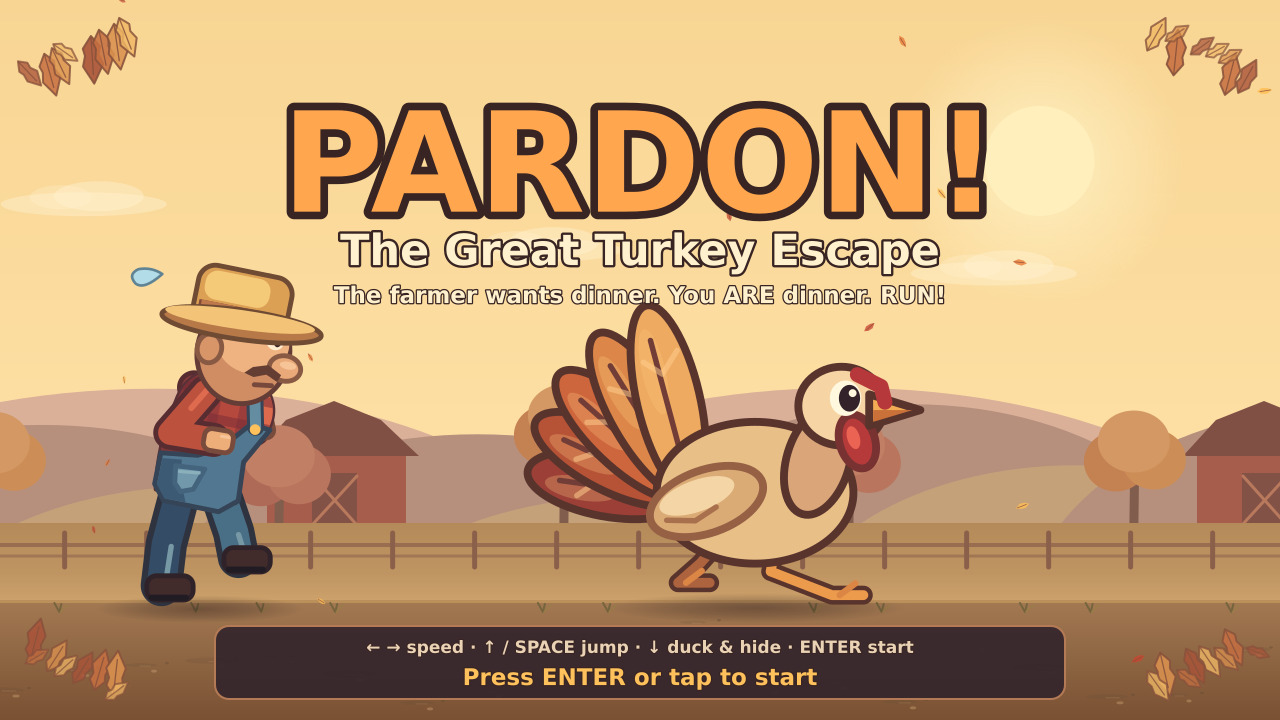
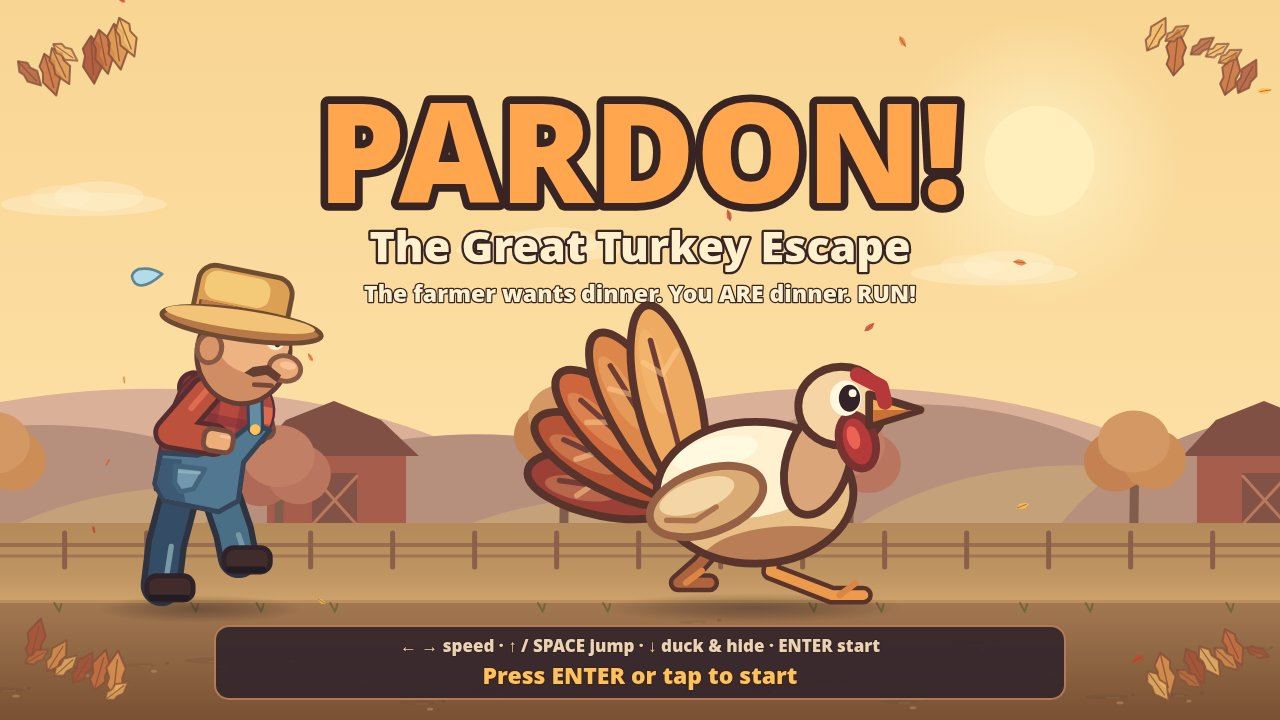
v3.1: oven collision reverted to 128 per Kaggle re-measurement (eased values overshoot to 63-84% clear); cover restaged with visible gap between farmer's hand and oven; barn shot is now the hide moment (HIDDEN, searching farmer); stronger drop shadows; larger caught-screen score line; screenshots re

diff --git a/game/src/render.js b/game/src/render.js
@@ -88,9 +88,9 @@ export class Renderer {
     return gradient;
   }
 
-  text(value, x, y, size, fill = CREAM, align = 'center', outline = INK) {
+  text(value, x, y, size, fill = CREAM, align = 'center', outline = INK, weight = 900) {
     const c = this.ctx;
-    c.font = `900 ${size}px system-ui, sans-serif`;
+    c.font = `${weight} ${size}px system-ui, sans-serif`;
     c.textAlign = align;
     c.textBaseline = 'middle';
     c.lineJoin = 'round';
@@ -110,14 +110,14 @@ export class Renderer {
     }
   }
 
-  shadow(x, y, w, h = 6) {
+  shadow(x, y, w, h = 6, strong = false) {
     const c = this.ctx;
     c.save();
     c.translate(x, y);
     c.scale(w, h);
     const shade = c.createRadialGradient(0, 0, 0, 0, 0, 1);
-    shade.addColorStop(0, '#24171861');
-    shade.addColorStop(0.5, '#24171839');
+    shade.addColorStop(0, strong ? '#24171886' : '#24171861');
+    shade.addColorStop(0.5, strong ? '#24171850' : '#24171839');
     shade.addColorStop(1, '#24171800');
     this.oval(0, 0, 1, 1, shade);
     c.restore();
@@ -355,12 +355,14 @@ export class Renderer {
     const dashing = this.trackRunner(state);
     const impact = this.beginImpact();
     this.background(state.currentStage.id, state.cameraX);
+    const cover = state.frozen ? state.shotCover : undefined;
     for (const item of itemsInRange(state.world, state.cameraX - 25, state.cameraX + this.w + 25)) {
-      if (!item.collected) this.drawItem(item, item.x - state.cameraX);
+      if (item !== cover && !item.collected) this.drawItem(item, item.x - state.cameraX);
     }
     this.drawEffects(state.cameraX);
     if (dashing) this.speedLines(state.turkey, state.cameraX);
     this.drawTurkey(state.turkey, state.turkey.x - state.cameraX, state.farmer.state === 'lunge');
+    if (cover) this.drawItem(cover, cover.x - state.cameraX);
     this.drawFarmer(state.farmer, state.farmer.x - state.cameraX);
     if (!state.frozen || state.currentStage.id === 'farm') this.leaves(state.cameraX);
     this.endImpact(impact);
@@ -499,7 +501,7 @@ export class Renderer {
     const { w, h, kind } = item;
     const g = this.ground;
     const y = g - h;
-    if (kind !== 'corn') this.shadow(x + w / 2, g + 3, w * 0.57);
+    if (kind !== 'corn') this.shadow(x + w / 2, g + 3, w * 0.57, 6, true);
     switch (kind) {
       case 'fence':
         this.round(x, y + 22, w, 11, 3, '#4d2c24');
@@ -628,7 +630,7 @@ export class Renderer {
 
   drawTurkey(turkey, x, alarmed) {
     const lift = turkey.y ?? 0;
-    this.shadow(x, this.ground + 4, Math.max(9, 33 - lift * 0.11) * CHARACTER_SCALE, 8);
+    this.shadow(x, this.ground + 4, Math.max(9, 33 - lift * 0.11) * CHARACTER_SCALE, 8, true);
     this.turkeyPose(x, this.ground - lift, { ...turkey, airborne: lift > 0, alarmed }, CHARACTER_SCALE);
   }
 
@@ -738,7 +740,7 @@ export class Renderer {
   }
 
   drawFarmer(farmer, x) {
-    this.shadow(x, this.ground + 3, 39 * CHARACTER_SCALE, 8);
+    this.shadow(x, this.ground + 3, 39 * CHARACTER_SCALE, 8, true);
     this.farmerPose(x, this.ground, farmer, CHARACTER_SCALE);
     if (farmer.state === 'search') this.text('?', x, this.ground - 145 * CHARACTER_SCALE, 37, GOLD);
   }
@@ -994,9 +996,10 @@ export class Renderer {
       'Press ENTER or tap to start', true);
   }
 
-  bottomPrompt(details, prompt, blink = false) {
+  bottomPrompt(details, prompt, blink = false, emphasizeDetails = false) {
     this.round(215, 626, 850, 73, 14, '#35262ceF', '#b47a55');
-    this.text(details, 640, 647, 17, '#ead2b5');
+    if (emphasizeDetails) this.text(details, 640, 647, 22, CREAM, 'center', INK, 1000);
+    else this.text(details, 640, 647, 17, '#ead2b5');
     if (!blink || this.time % 1.3 < 1.03) this.text(prompt, 640, 677, 23, GOLD);
   }
 
@@ -1008,7 +1011,7 @@ export class Renderer {
     this.rect(0, 0, this.w, this.h, '#291b2b89');
     this.text('CAUGHT!', 640, 122, 112, '#ff8062');
     this.text('The dinner is back on...', 640, 194, 31);
-    this.shadow(608, this.ground + 8, 156, 17);
+    this.shadow(608, this.ground + 8, 156, 17, true);
     this.farmerPose(530, this.ground, { facing: 1 }, 2.28 * CHARACTER_SCALE, true);
     this.turkeyPose(686, this.ground - 328, { airborne: true, despair: true }, 1.94 * CHARACTER_SCALE, Math.PI);
     this.leafFrame();
@@ -1021,7 +1024,7 @@ export class Renderer {
     this.background('farm', 176, true);
     this.text('ESCAPED!', 640, 150, 110, GOLD);
     this.text('One turkey, officially pardoned.', 640, 226, 32);
-    this.shadow(465, this.ground + 8, 161, 15);
+    this.shadow(465, this.ground + 8, 161, 15, true);
     this.turkeyPose(470, this.ground + 1, { celebrate: true }, 3.55 * CHARACTER_SCALE);
     const c = this.ctx;
     c.save();
@@ -1041,6 +1044,6 @@ export class Renderer {
 
   endPrompt(state) {
     this.bottomPrompt(`FINAL SCORE ${String(state.score).padStart(6, '0')}    ·    DIST ${state.distance} m`,
-      'Press ENTER to run again');
+      'Press ENTER to run again', false, true);
   }
 }

diff --git a/game/src/shots.js b/game/src/shots.js
@@ -8,6 +8,7 @@ export function stageShot(name, game) {
   game.frozen = true;
   game.time = 0.72;
   delete game.shotDustX;
+  delete game.shotCover;
 
   switch (name) {
     case 'farm':
@@ -16,22 +17,23 @@ export function stageShot(name, game) {
         ['fence', 300], ['haybale', 560],
       ]);
       break;
-    case 'barn':
-      stageRun(game, 1, 3600, 1152, [
-        ['crate', -340], ['haybale', -20], ['pitchfork', 300],
-      ]);
-      game.turkey.y = 70;
-      game.turkey.vy = 180;
-      game.shotDustX = game.turkey.x - 85;
+    case 'barn': {
+      stageRun(game, 1, 3600, 1152, [['crate', -235], ['haybale', -40]], 565);
+      game.shotCover = game.world.items.find((item) => item.staged && item.kind === 'haybale');
+      game.turkey.ducking = true;
+      game.turkey.hidden = game.turkey.isHidden([game.shotCover]);
+      game.farmer.x = game.turkey.x - 435;
+      game.farmer.state = 'search';
       break;
+    }
     case 'kitchen': {
-      const ovenOffset = 330;
-      stageRun(game, 2, 3570, 1961, [['oven', ovenOffset], ['knife', 640]], 334);
+      const ovenShift = 30;
+      stageRun(game, 2, 3570, 1961, [['oven', 330 + ovenShift], ['knife', 640]], 334);
       const oven = game.world.items.find((item) => item.staged && item.kind === 'oven');
-      game.turkey.x = oven.x + oven.w / 2;
+      game.turkey.x = oven.x + oven.w / 2 - ovenShift;
       game.turkey.y = oven.h + 28;
       game.turkey.vy = 280;
-      game.farmer.x = game.turkey.x - 126;
+      game.farmer.x = game.turkey.x - 138;
       game.farmer.state = 'lunge';
       game.farmer.lungeRemaining = 0.22;
       game.distance = Math.floor(game.turkey.x / CONFIG.game.PIXELS_PER_METRE);

diff --git a/game/src/config.js b/game/src/config.js
@@ -56,7 +56,7 @@ export const CONFIG = {
   spawning: {
     OBSTACLES_PER_1000PX: [2.31, 2.73, 3.15],
     CORN_VALUE: 25,
-    OVEN_COLLISION_HEIGHT: 112,
+    OVEN_COLLISION_HEIGHT: 128,
     START_MARGIN: 500,
     END_MARGIN: 460,
     MIN_OBSTACLE_SPACING: 260,
